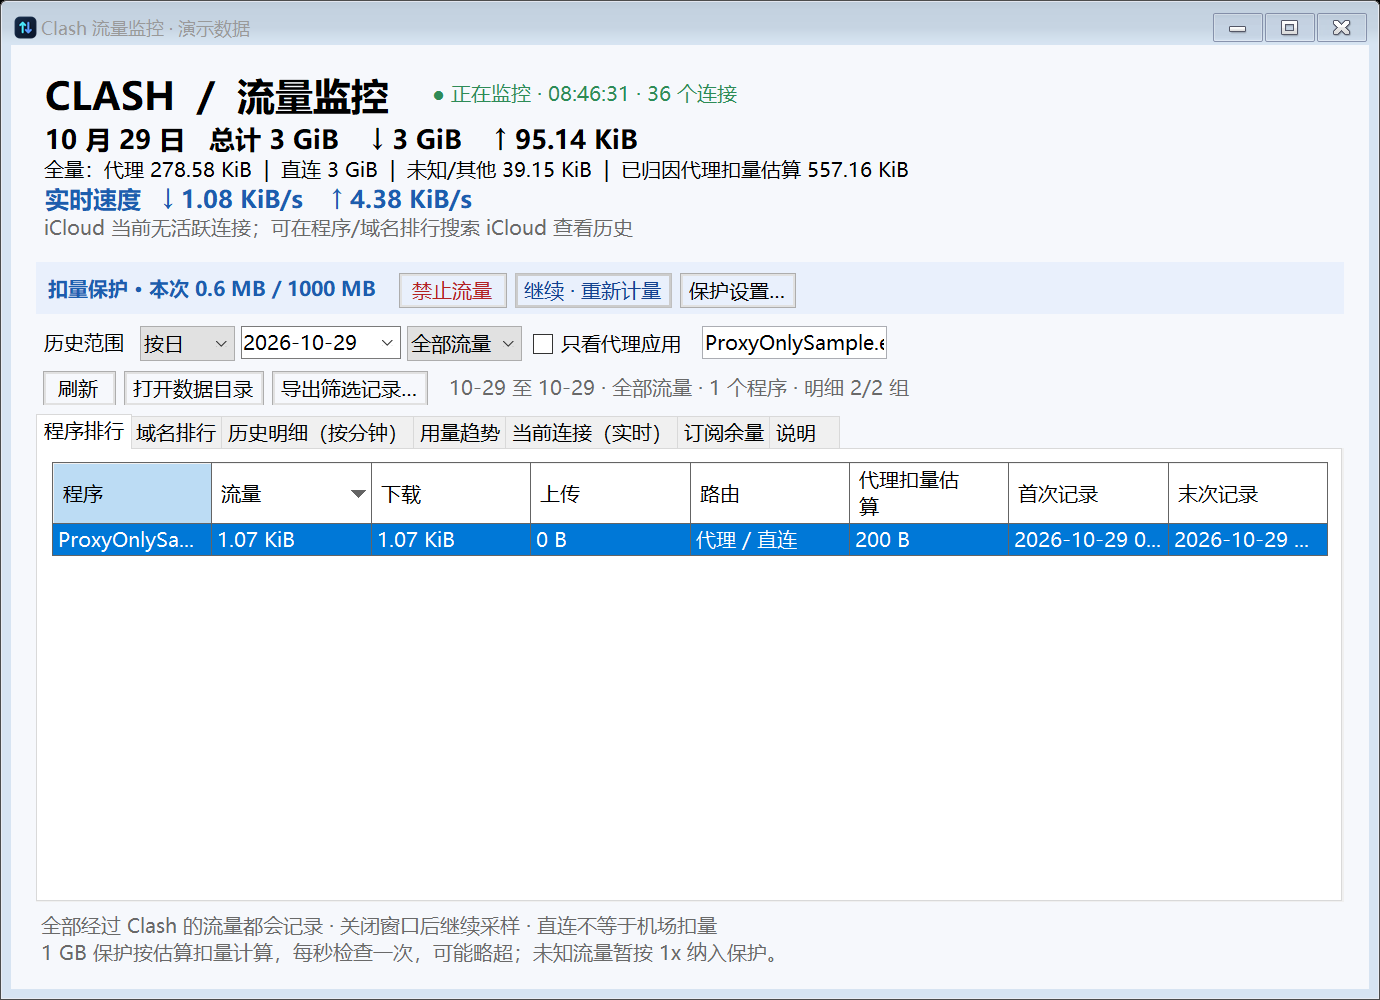
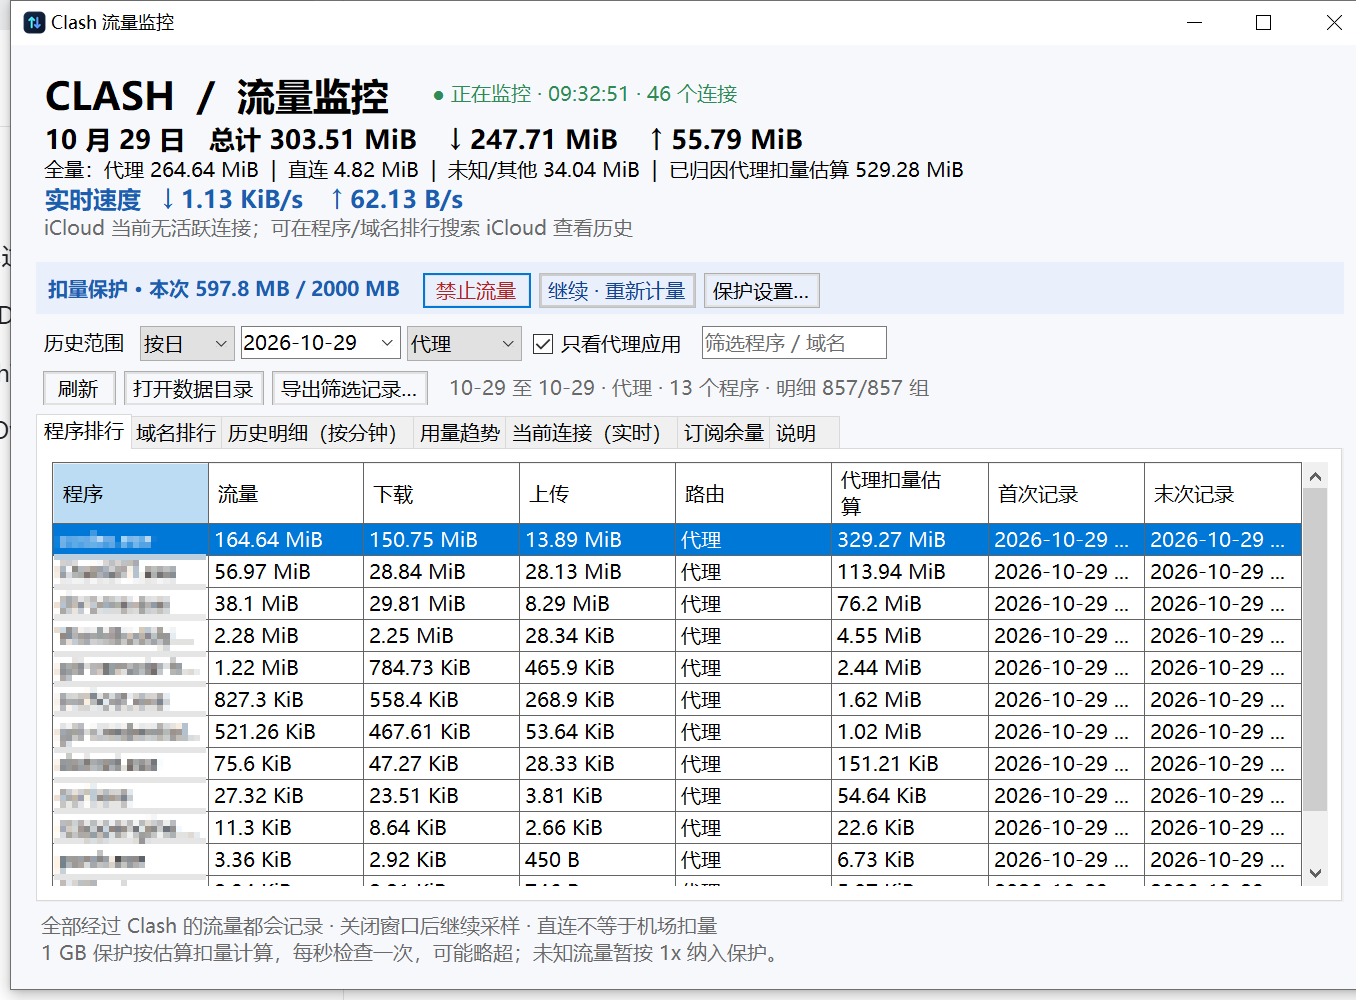
docs: use real running screenshot for overview, mask process names

Changed region(s): [[0.0, 0.0, 1.0, 1.0], [0.6195, 0.465, 0.9292, 0.868]]

diff --git a/README.md b/README.md
@@ -37,7 +37,7 @@ dotnet publish src/ClashTrafficMonitor.csproj -c Release -o app --no-self-contai
 
 ## 界面预览
 
-以下为当前程序控件导出的演示界面，示例数据不代表真实流量记录。
+第一张是程序在主窗口中的实际运行截图（程序名一列已打码），后两张为控件导出的演示界面，示例数据不代表真实流量记录。
 
 ![程序用量与排序](docs/screenshots/overview.png)
 ![本地历史明细](docs/screenshots/history.png)
